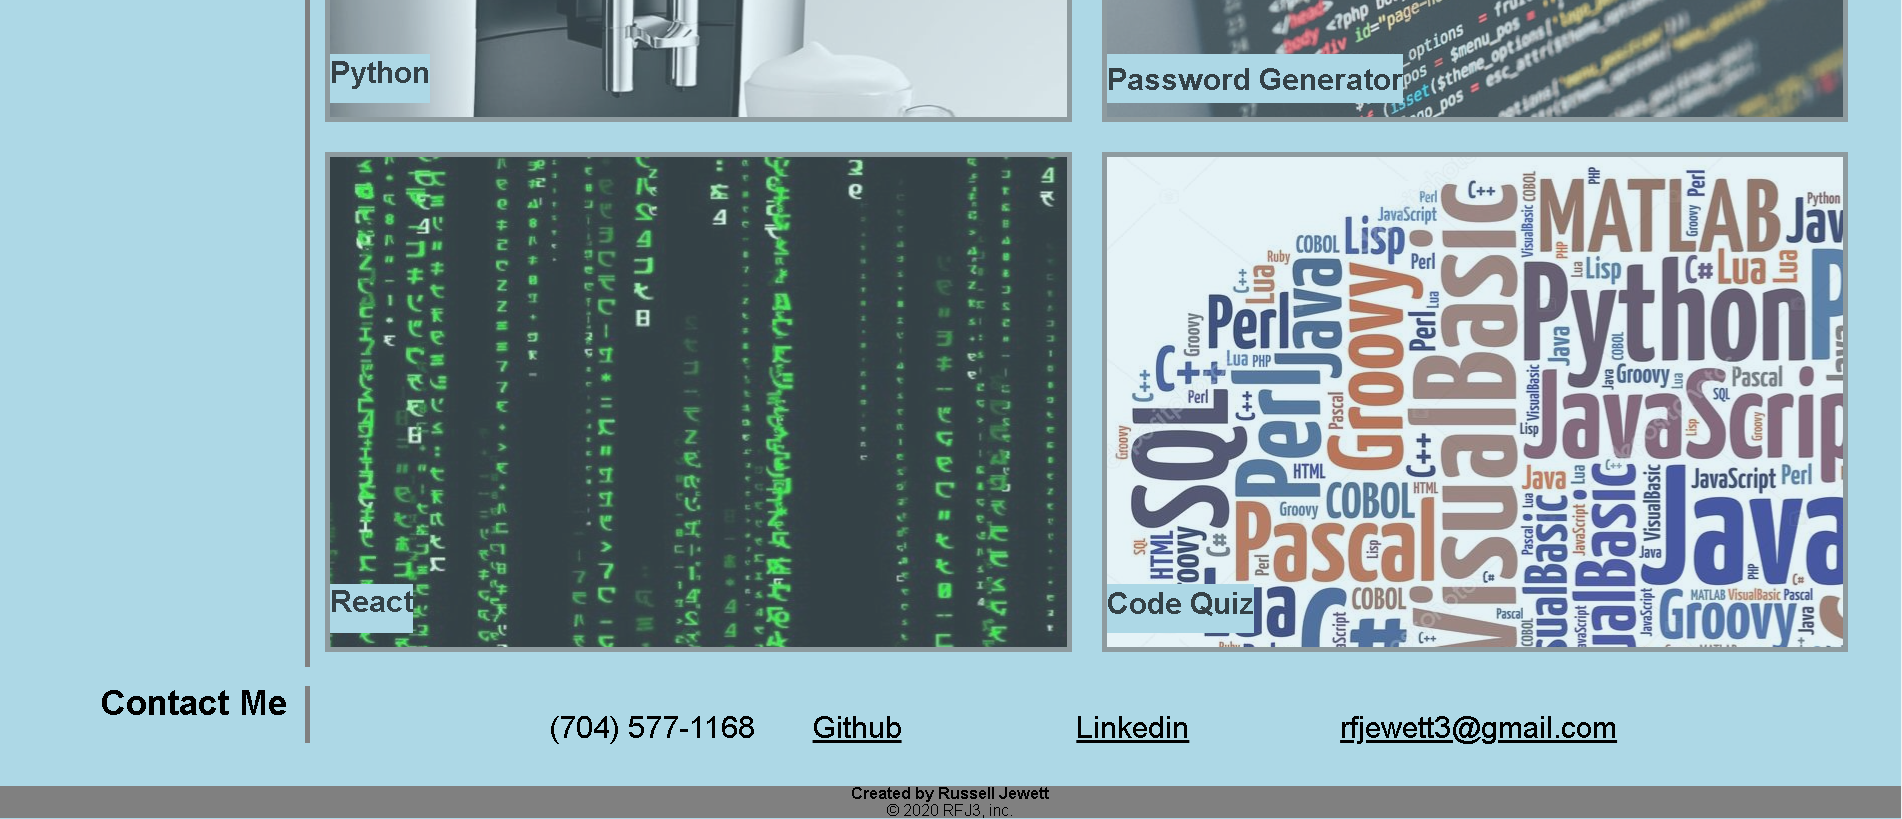
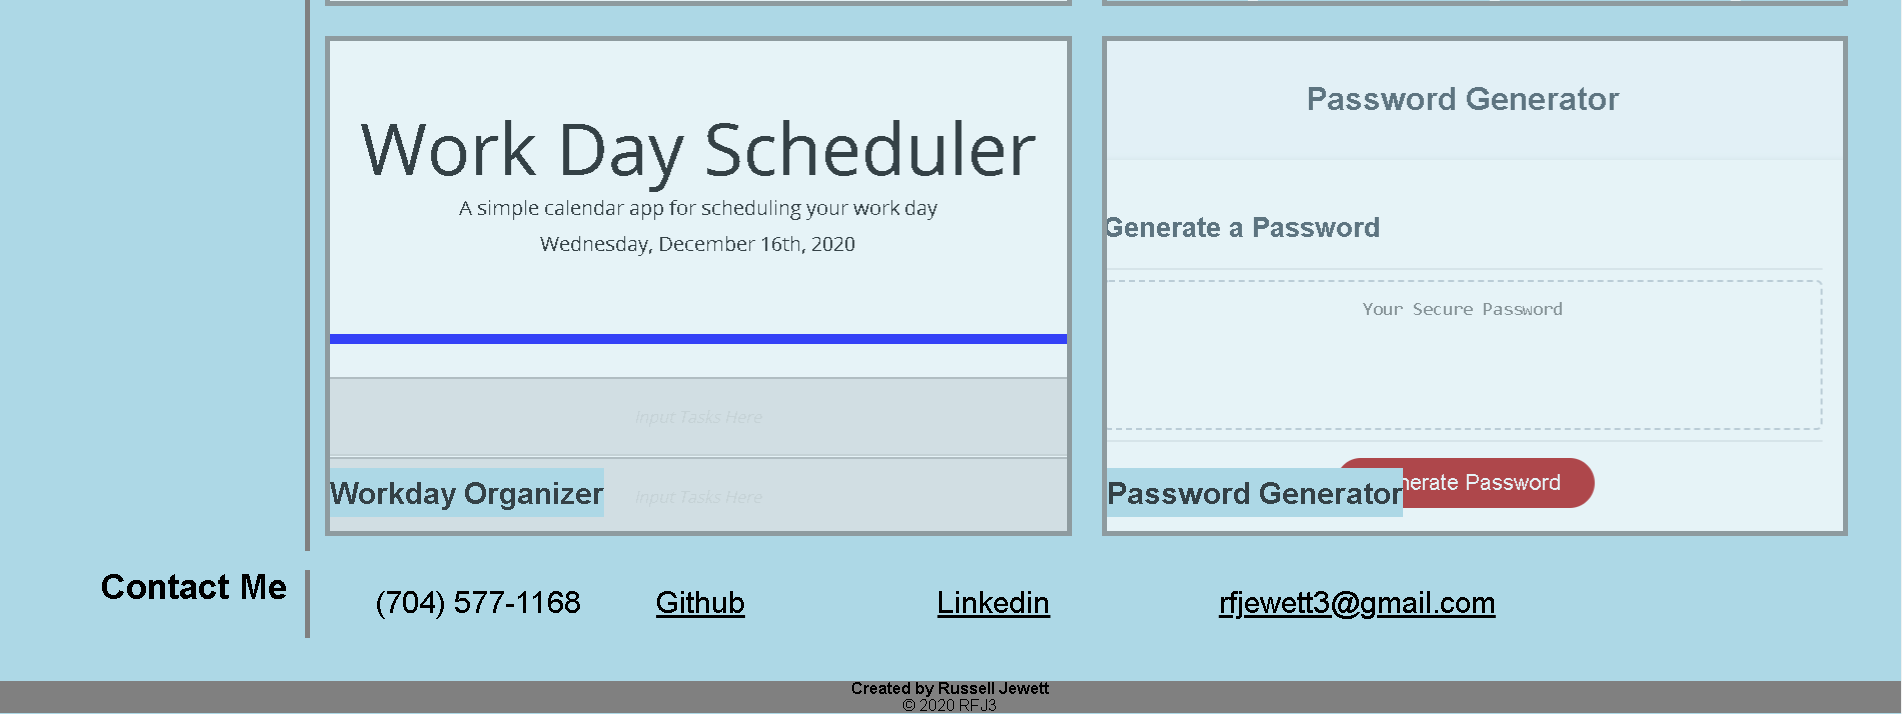
updates portfolio to reflect current work.

diff --git a/index.html b/index.html
@@ -60,29 +60,29 @@
                 <!-- This section took a special class "work" because of all the excess formatting for this portion of the webpage. -->
                 <div class="work">
                     <!-- The "tile" class is to format all of the images that showcase my work. -->
-                    <div class="tile" id="horiseon">
-                        <a href="https://treyjewett.github.io/Horiseon-Marketing/" target ="_blank">
-                            <div class="tile-text"><p>HTML / CSS</p></div>
+                    <div class="tile" id="COVID">
+                        <a href="https://treyjewett.github.io/COVID19SymptomChecker/" target ="_blank">
+                            <div class="tile-text"><p>COVID-19 Symptom Checker</p></div>
                         </a>
                     </div>
-                    <div class="tile" id="python">
-                        <a href="https://github.com/treyjewett/Python-Coffee_Machine" target="_blank">
-                            <div class="tile-text"><p>Python</p></div>
+                    <div class="tile" id="code-quiz">
+                        <a href="https://github.com/treyjewett/" target="_blank">
+                            <div class="tile-text"><p>Code Quiz</p></div>
+                        </a>
+                    </div>
+                    <div class="tile" id="weather">
+                        <a href="https://treyjewett.github.io/Weather-dashboard/" target="_blank">
+                            <div class="tile-text"><p>Weather Dashboard</p></div>
+                        </a>
+                    </div>
+                    <div class="tile" id="organizer">
+                        <a href="https://treyjewett.github.io/Workday-organizer/" target="_blank">
+                            <div class="tile-text"><p>Workday Organizer</p></div>
                         </a>
                     </div>
                     <div class="tile" id="password-generator">
-                        <a href="https://github.com/treyjewett/" target="_blank">
+                        <a href="https://treyjewett.github.io/Password-generator/" target="_blank">
                             <div class="tile-text"><p>Password Generator</p></div>
-                        </a>
-                    </div>
-                    <div class="tile" id="matrix">
-                        <a href="https://github.com/treyjewett/" target="_blank">
-                            <div class="tile-text"><p>React</p></div>
-                        </a>
-                    </div>
-                    <div class="tile" id="languages">
-                        <a href="https://github.com/treyjewett/" target="_blank">
-                            <div class="tile-text"><p>Code Quiz</p></div>
                         </a>
                     </div>
                 </div>

diff --git a/assets/css/style.css b/assets/css/style.css
@@ -184,19 +184,37 @@ section {
 }
 
 /* Formatting the individual tiles to make each unique. */
-#horiseon {
-    background-image: url("../../assets/images/Horiseon-project.jpg");
+#COVID {
+    background-image: url("../../assets/images/COVID.png");
     background-repeat: no-repeat;
     height: 500px;
     width: 70%;
     align-self: center;
+    background-position: center top;
 }
 
-#python {
-    background-image: url("../../assets/images/coffee-machine.jpg");
+#code-quiz {
+    background-image: url("../../assets/images/code-quiz.png");
     background-repeat: no-repeat;
     height: 500px;
     width: 500px;
+    background-position: center top;
+}
+
+#weather {
+    background-image: url("../../assets/images/weather.png");
+    background-repeat: no-repeat;
+    height: 500px;
+    width: 500px;
+    background-position: center top;
+}
+
+#organizer {
+    background-image: url("../../assets/images/organizer.png");
+    background-repeat: no-repeat;
+    height: 500px;
+    width: 500px;
+    background-position: center top;
 }
 
 #password-generator {
@@ -204,20 +222,7 @@ section {
     background-repeat: no-repeat;
     height: 500px;
     width: 500px;
-}
-
-#matrix {
-    background-image: url("../../assets/images/matrix.jpg");
-    background-repeat: no-repeat;
-    height: 500px;
-    width: 500px;
-}
-
-#languages {
-    background-image: url("../../assets/images/languages.jpg");
-    background-repeat: no-repeat;
-    height: 500px;
-    width: 500px;
+    background-position: center top;
 }
 
 /* Setting the opacity to 70% to make the hover pseudo-element work later. */
